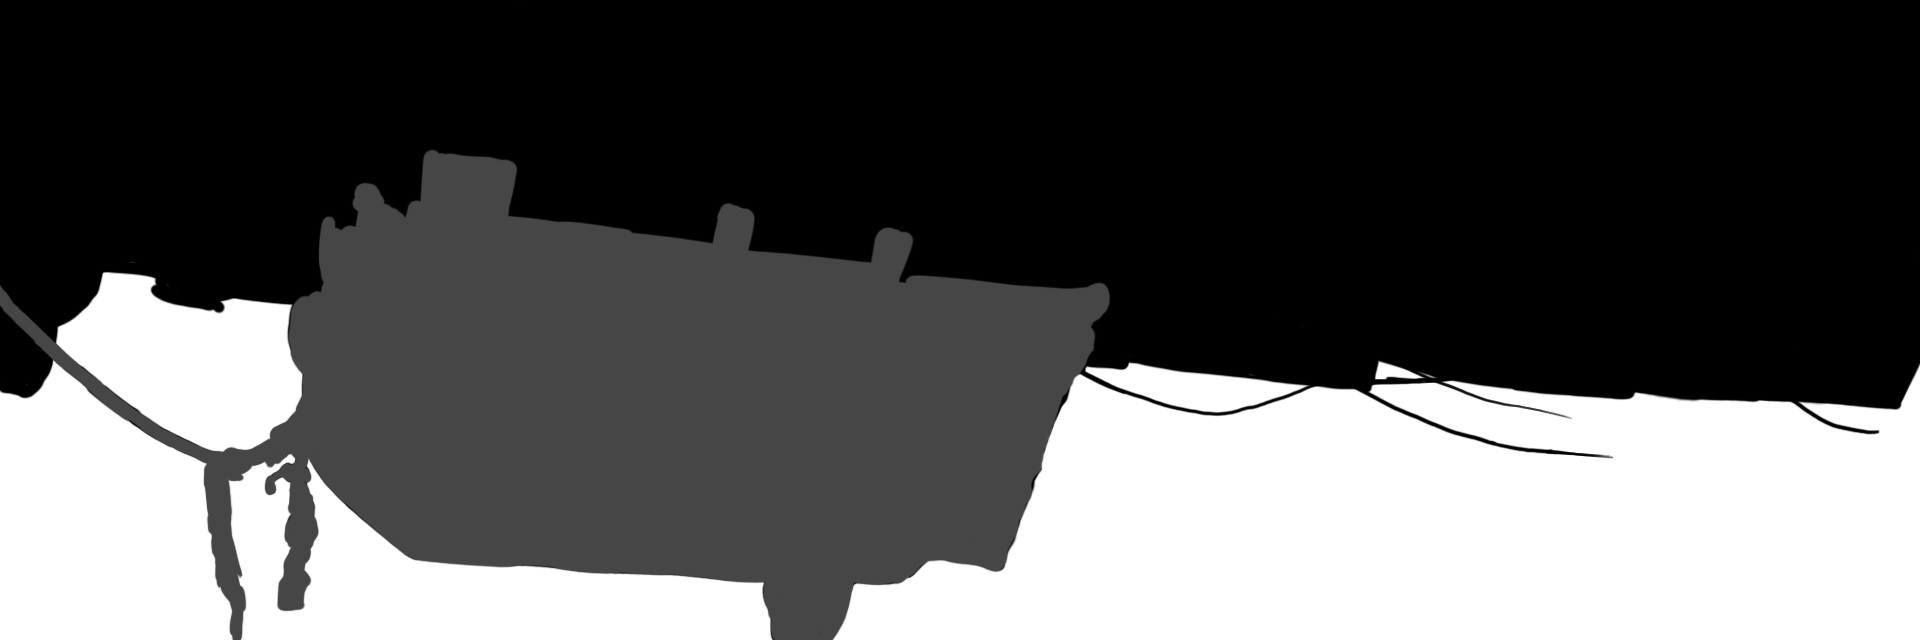
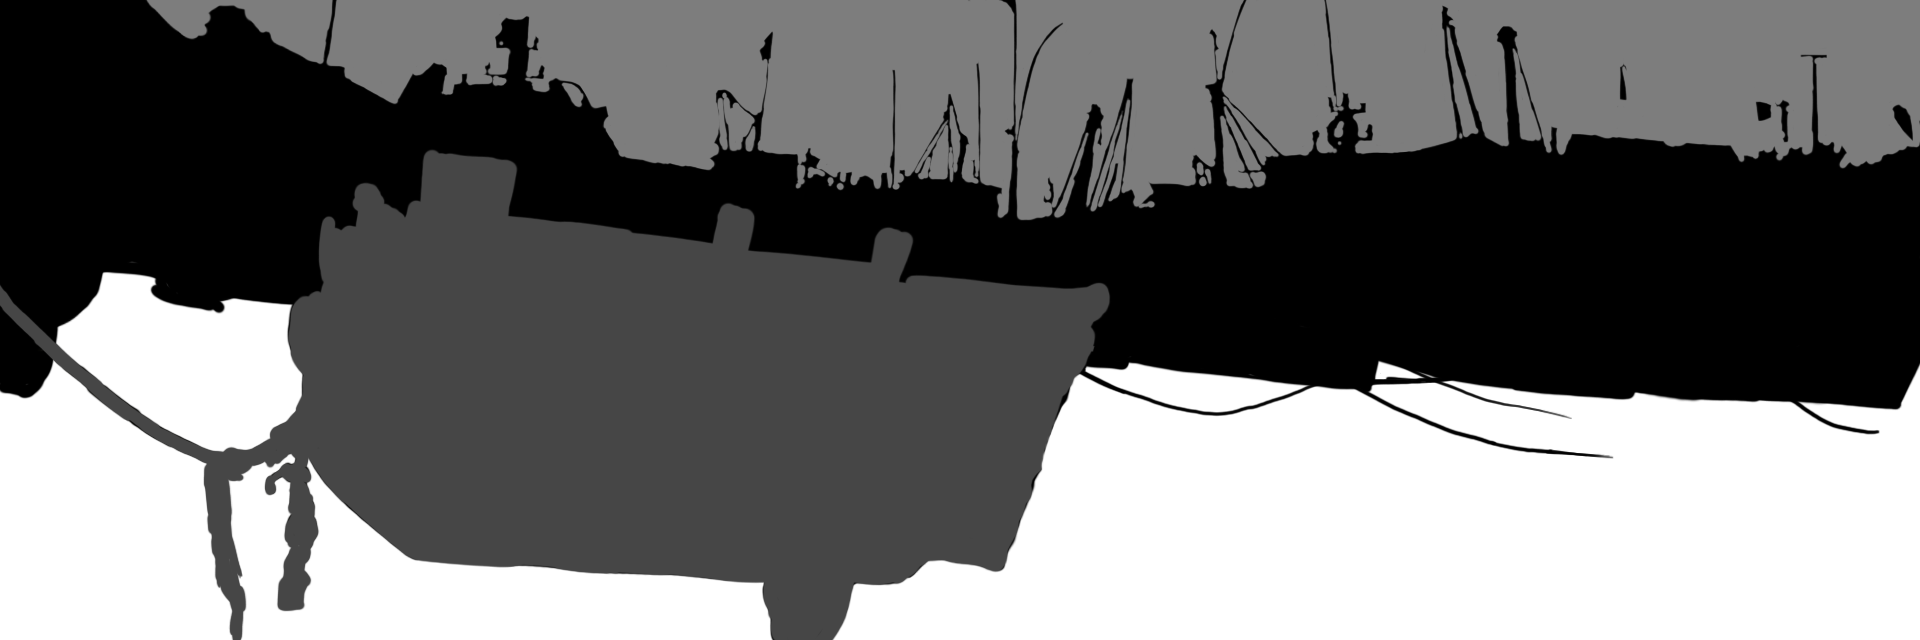
Tidying up and new features

Changed region(s): [[0.0625, 0.0, 1.0, 0.3438]]

diff --git a/sketch.js b/sketch.js
@@ -3,8 +3,8 @@ let maskImg=null;
 let renderCounter=0;
 
 // change these three lines as appropiate
-let sourceFile = "input_2.jpg";
-let maskFile   = "mask_2.png";
+let sourceFile = "input_1.jpg";
+let maskFile   = "mask_1.png";
 let outputFile = "output_1.png";
 
 angleMode(DEGREES)
@@ -26,7 +26,7 @@ function setup () {
 }
 
 function draw () {
-  for(let i=0;i < 15000;i++) {
+  for(let i=0;i < 8000;i++) {
     let x = floor(random(sourceImg.width));
     let y = floor(random(sourceImg.height));
     let pix = sourceImg.get(x, y);
@@ -34,21 +34,26 @@ function draw () {
 
     fill(pix);
 
-    if(mask[0] < 5 && i < 3000 ){ //Black, background
-      let pointSize = 9;
+    if(mask[0] < 5 && i < 3500 ){ //Black, background
+      let pointSize = 8;
       strokeWeight(0)
+      stroke(0)
       rect(x, y, pointSize, pointSize,1);
     }
-
-    else if(mask[0] > 5 && mask[0] < 200) { //Grey, Foreground
+    else if(mask[0] > 100 && mask[0] < 200) { //light Grey, Sky
+      let pointSize = 7;
+      strokeWeight(0);
+      fill(pix[0], pix[1], pix[2], 255)
+      ellipse(x, y, pointSize, pointSize)
+    }
+    else if(mask[0] > 5 && mask[0] < 100) { //Dark Grey, Foreground
       let pointSize = 4;
       strokeWeight(0);
       rect(x, y, pointSize, pointSize,2)
     }
-
-    else if(mask[0] > 200 && i < 2000){ //White, water
+    else if(mask[0] > 200 && i < 1500){ //White, water
       let pointSize = random(4, 10);
-      stroke(pix)
+      stroke(pix[0], pix[1], pix[2])
       strokeWeight(pointSize)
         line(x - random(5,20), y, x + random(5,20), y)
     }

diff --git a/README.md b/README.md
@@ -1,27 +1,37 @@
-if(mask[0] < 5 && i < 3000 ){ //Black, background
-  let pointSize = 9;
+if(mask[0] < 5 && i < 3500 ){ //Black, background
+  let pointSize = 8;
   strokeWeight(0)
+  stroke(0)
   rect(x, y, pointSize, pointSize,1);
 }
-
-else if(mask[0] > 5 && mask[0] < 200) { //Grey, Foreground
+else if(mask[0] > 100 && mask[0] < 200) { //light Grey, Sky
+  let pointSize = 7;
+  strokeWeight(0);
+  fill(pix[0], pix[1], pix[2], 255)
+  ellipse(x, y, pointSize, pointSize)
+}
+else if(mask[0] > 5 && mask[0] < 100) { //Dark Grey, Foreground
   let pointSize = 4;
   strokeWeight(0);
   rect(x, y, pointSize, pointSize,2)
 }
-
-else if(mask[0] > 200 && i < 2000){ //White, water
+else if(mask[0] > 200 && i < 1500){ //White, water
   let pointSize = random(4, 10);
-  stroke(pix)
+  stroke(pix[0], pix[1], pix[2])
   strokeWeight(pointSize)
     line(x - random(5,20), y, x + random(5,20), y)
 }
 
-Added and fine tuned the random variables drawing the water
-Updated mask to include rope in the foreground
+Fixes / Cleanup
 
-Issues:
+  - Cleaned up code, now only runs 8000 times rather than 15000
+
+Added:
+
+  + Fourth mask, Masks now include, Foreground, background, sky, and water
+  + Started code for adjusting transparency of water
+
+Issues / progress:
+
   - Water mask bleeds over other masks
   - water looks flat, might add transparency to edges to soften edges make it look more fluid.
-
-  - Might add a third mask for the sky to further differentiate it between the background
